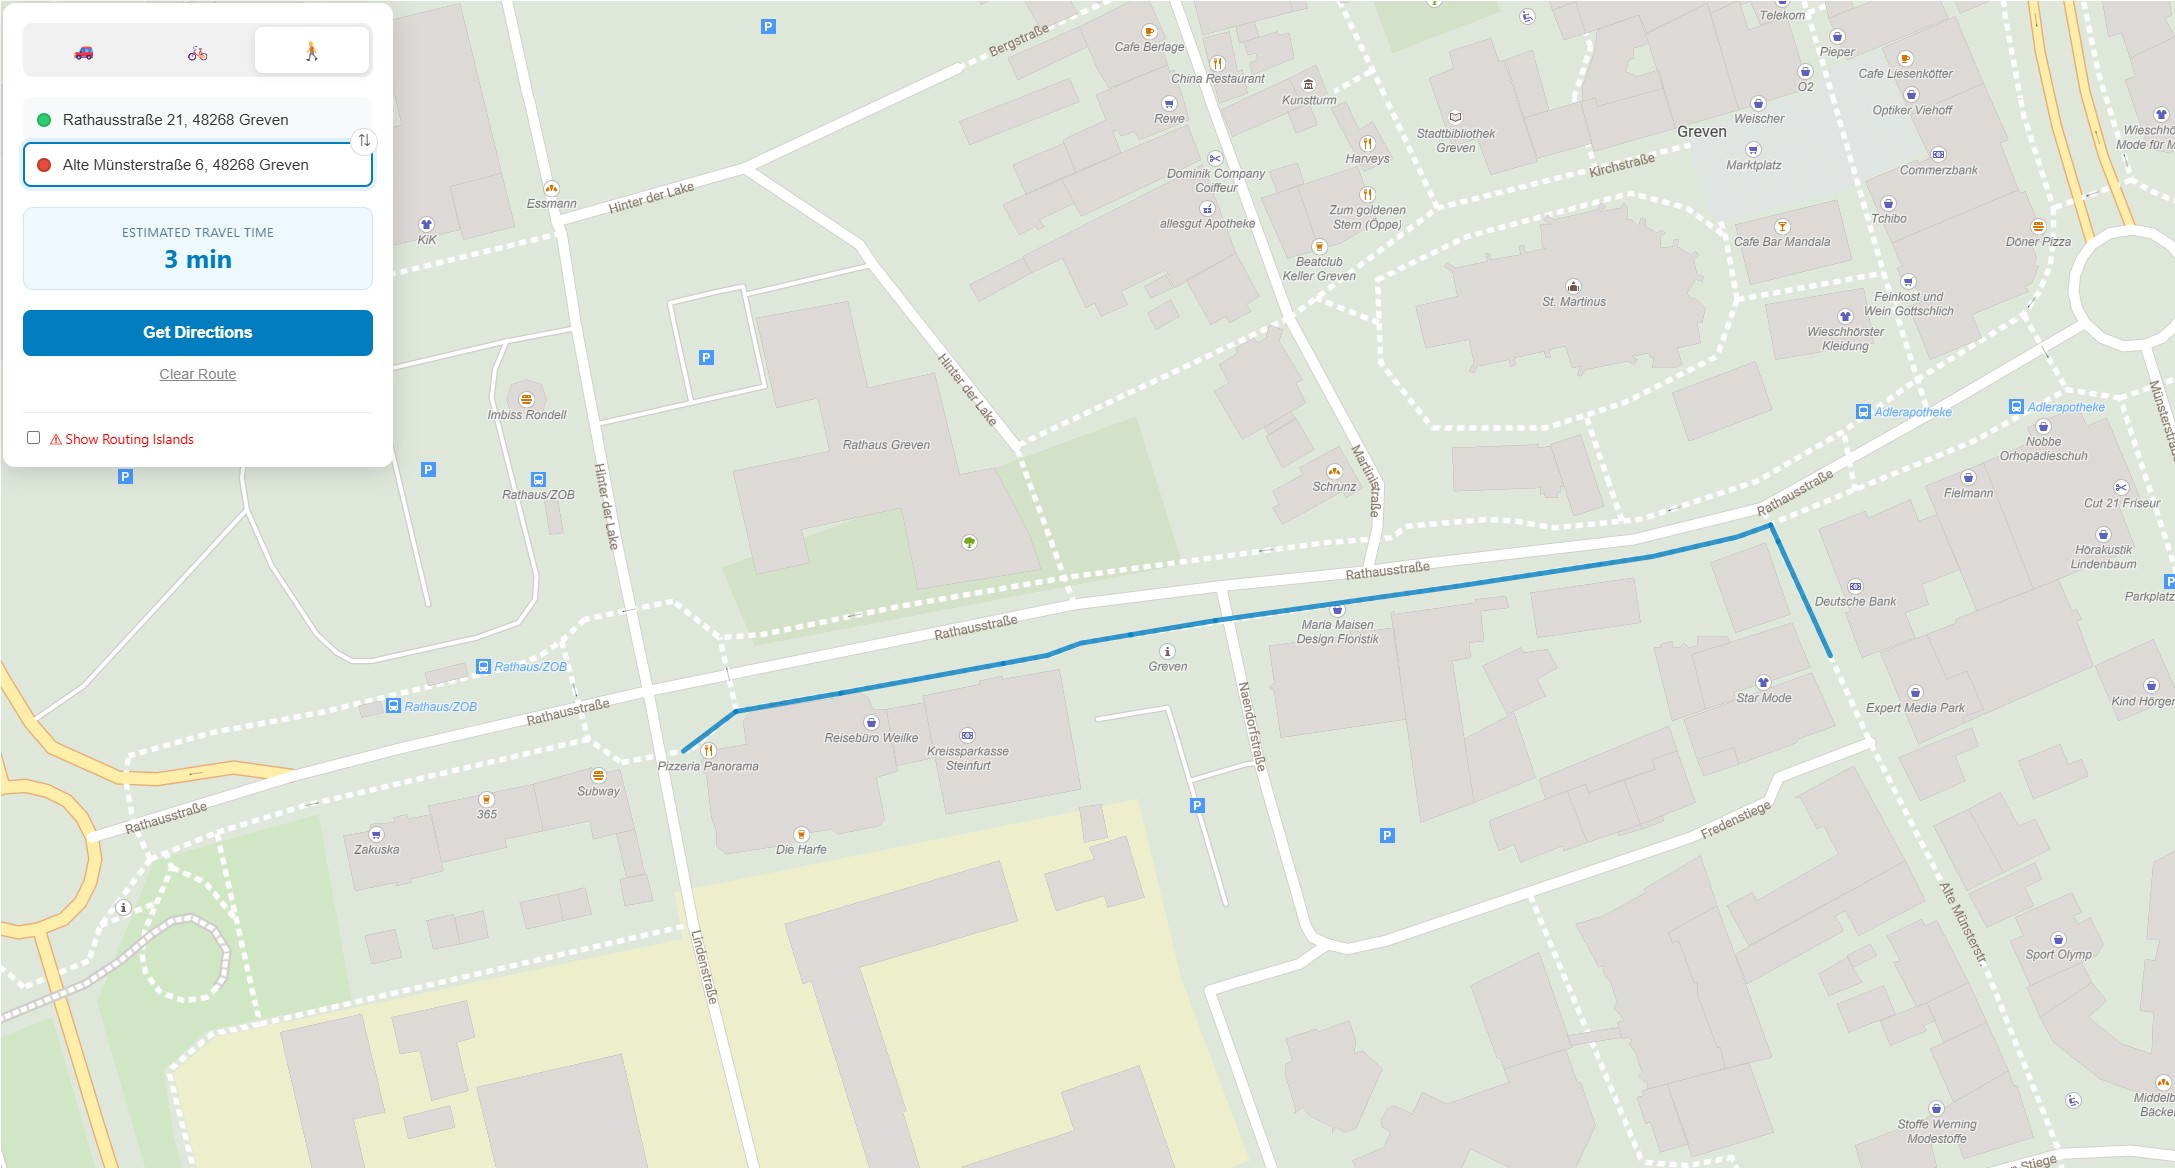
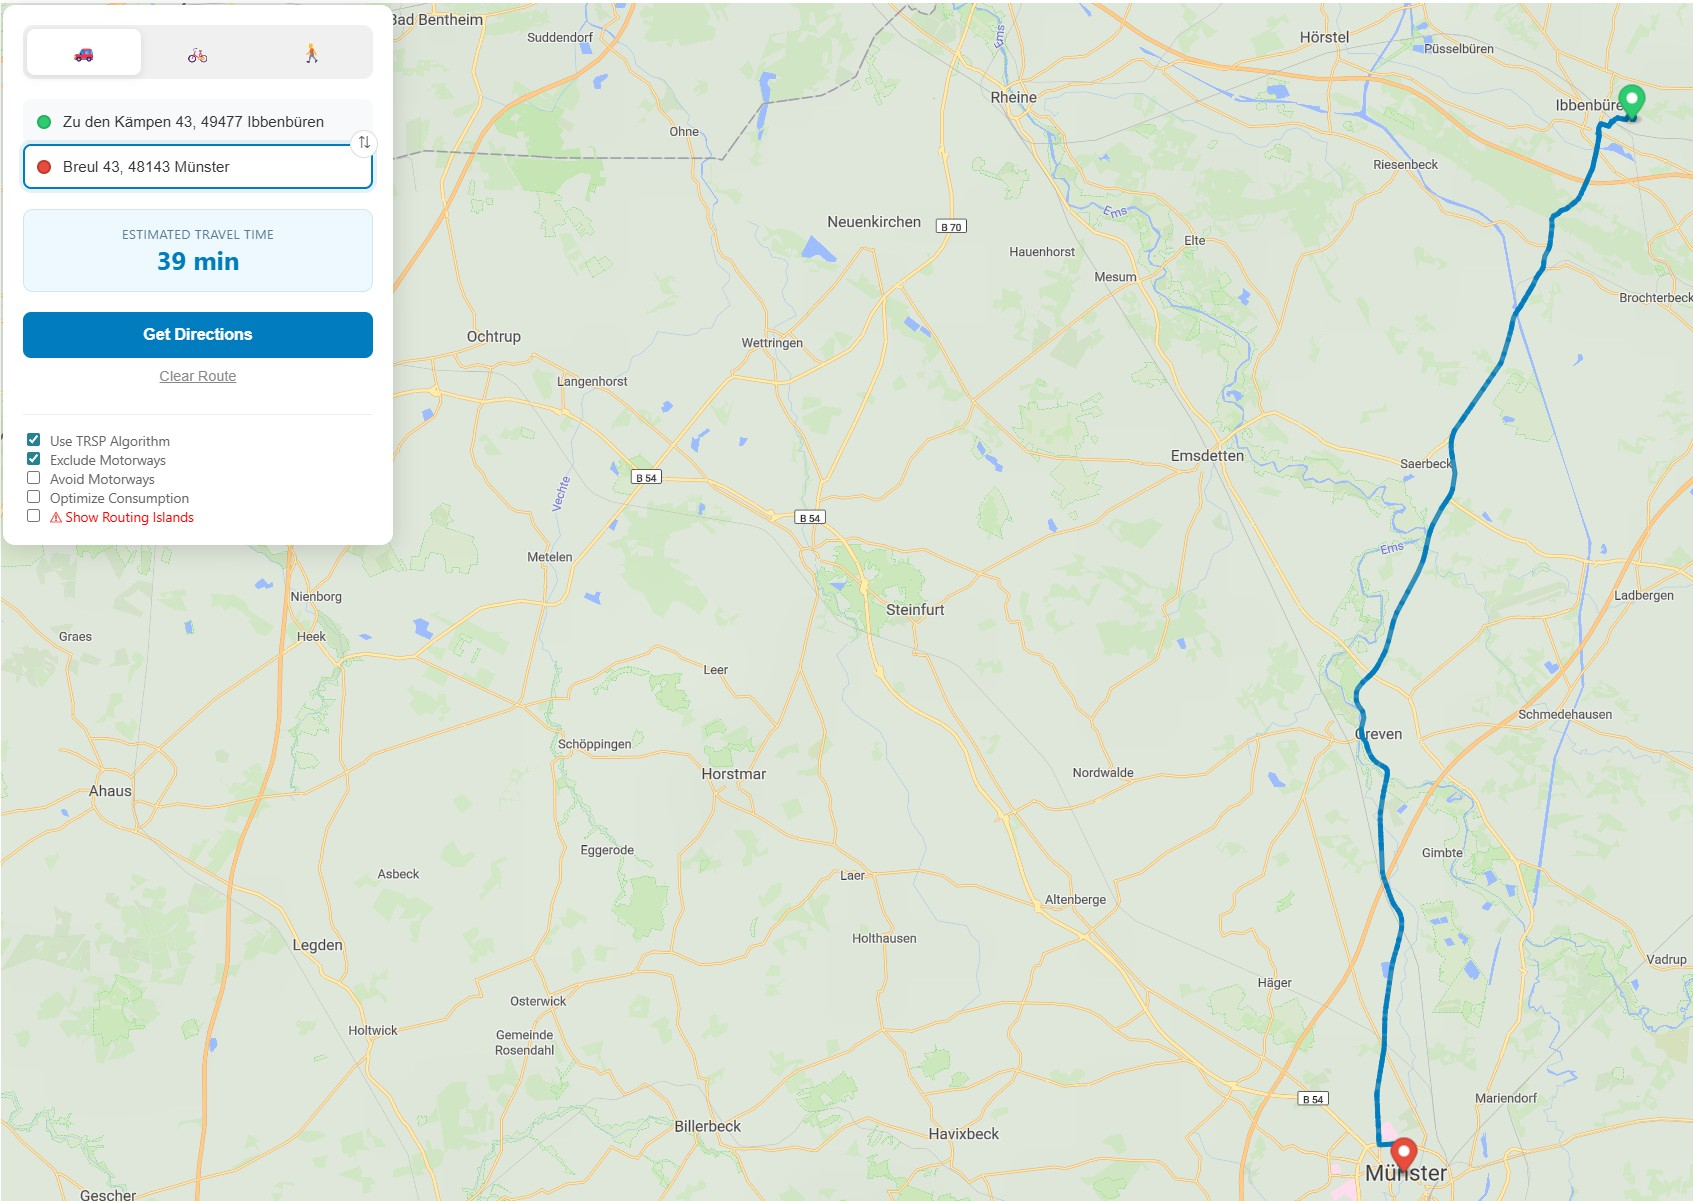
Add TRSP Routing

diff --git a/src/PgRoutingExperiments.Web.Client/src/app/app.ts b/src/PgRoutingExperiments.Web.Client/src/app/app.ts
@@ -111,6 +111,15 @@ import { RouteOptions, TransportMode, TransportModeOption } from './model/routin
         <label class="checkbox-container">
           <input
             type="checkbox"
+            [checked]="useTrsp()"
+            (change)="toggleUseTrsp($event)"
+          />
+          <span>Use TRSP Algorithm</span>
+        </label>
+
+        <label class="checkbox-container">
+          <input
+            type="checkbox"
             [checked]="options().exclude_motorway"
             (change)="toggleOption('exclude_motorway')"
           />
@@ -427,6 +436,8 @@ export class App {
 
   readonly travelTime = signal<string | null>(null);
 
+  readonly useTrsp = signal<boolean>(false);
+
   // Signals for the Map
   readonly initialCenter = signal<[number, number]>([
     this.settings.mapOptions.mapInitialPoint.lng,
@@ -573,6 +584,11 @@ export class App {
     }));
   }
 
+  toggleUseTrsp(event: Event) {
+    const checked = (event.target as HTMLInputElement).checked;
+    this.useTrsp.set(checked);
+  }
+
   toggleIslands(event: Event) {
     const checked = (event.target as HTMLInputElement).checked;
     this.showIslands.set(checked);
@@ -593,7 +609,7 @@ export class App {
 
     if (start && end) {
       this.routingService
-        .getRoute(this.selectedMode(), start, end, this.options())
+        .getRoute(this.selectedMode(), start, end, this.useTrsp(), this.options())
         .subscribe((response) => {
           this.mapService.setRoute(response);
 

diff --git a/src/PgRoutingExperiments.Web.Client/src/app/services/routing.service.ts b/src/PgRoutingExperiments.Web.Client/src/app/services/routing.service.ts
@@ -15,6 +15,7 @@ export class RoutingService {
     mode: TransportMode,
     start: [number, number],
     end: [number, number],
+    useTrsp: boolean,
     options: RouteOptions
   ): Observable<any> {
     const url = `${this.settings.apiUrl}/route`;
@@ -25,6 +26,7 @@ export class RoutingService {
       endLon: end[0],
       endLat: end[1],
       mode: mode,
+      useTrsp: useTrsp,
       options: options,
     };
 

diff --git a/src/PgRoutingExperiments.Api/Controllers/RoutingController.cs b/src/PgRoutingExperiments.Api/Controllers/RoutingController.cs
@@ -29,13 +29,15 @@ namespace PgRoutingExperiments.Api.Controllers
         {
             using var connection = new NpgsqlConnection(_applicationOptions.ConnectionString);
 
-            const string sql = @"
+            string functionName = routeRequestDto.UseTrsp ? "routing.get_route_trsp" : "routing.get_route";
+
+            string sql = $@"
                 SELECT 
                     seq, 
                     osm_name as name, 
                     cost_time as seconds,
                     ST_AsGeoJSON(geom) as geometry 
-                FROM routing.get_route(@startLon, @startLat, @endLon, @endLat, @transport_mode, @optionsJson::jsonb)";
+                FROM {functionName}(@startLon, @startLat, @endLon, @endLat, @transport_mode, @optionsJson::jsonb)";
 
             string optionsJson = JsonSerializer.Serialize(routeRequestDto.Options) ?? "{}";
 

diff --git a/src/PgRoutingExperiments.Api/Dto/RouteRequestDto.cs b/src/PgRoutingExperiments.Api/Dto/RouteRequestDto.cs
@@ -6,6 +6,8 @@ public class RouteRequestDto
 {
     public required string Mode { get; set; }
 
+    public required bool UseTrsp { get; set; } = false;
+
     public required double StartLon { get; set; }
 
     public required double StartLat { get; set; }
